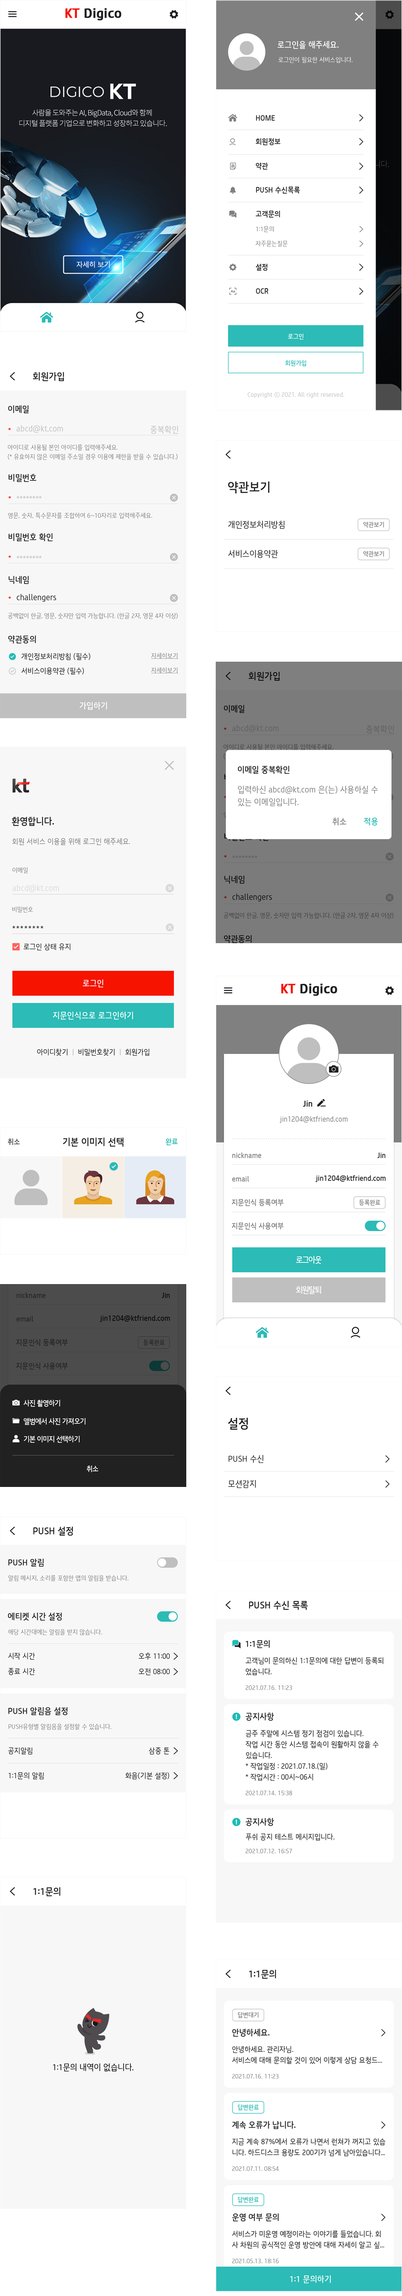
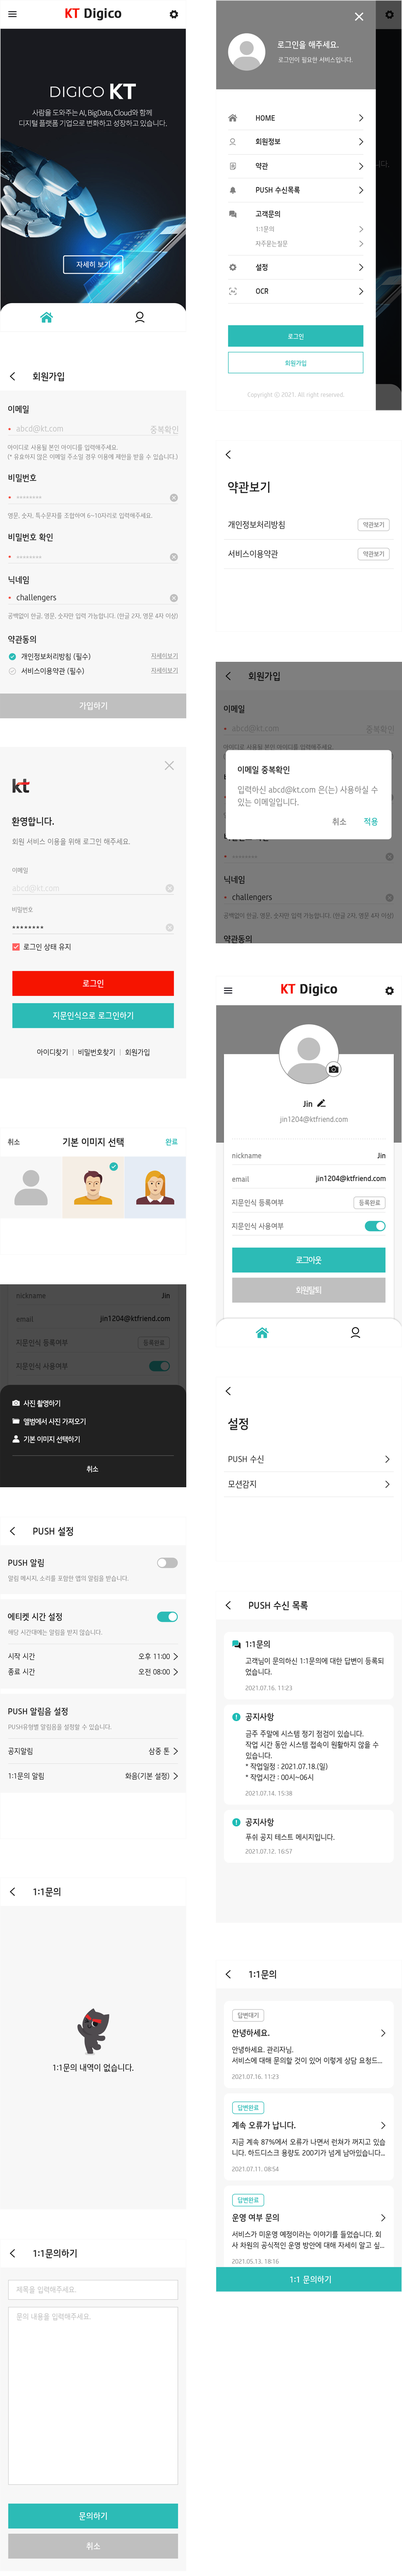
add

diff --git a/kt_always/index.html b/kt_always/index.html
@@ -233,6 +233,8 @@
 				<div class="h81"></div>
 				<p><img src="images/inquiry_list_guide.png" alt="inquiry_list_guide" /></p>
 				<div class="h81"></div>			
+				<p><img src="images/inquiry_write_guide.png" alt="inquiry_write_guide" /></p>
+				<div class="h81"></div>		
 
 			</div>
 			<!-- [e] page preview -->
